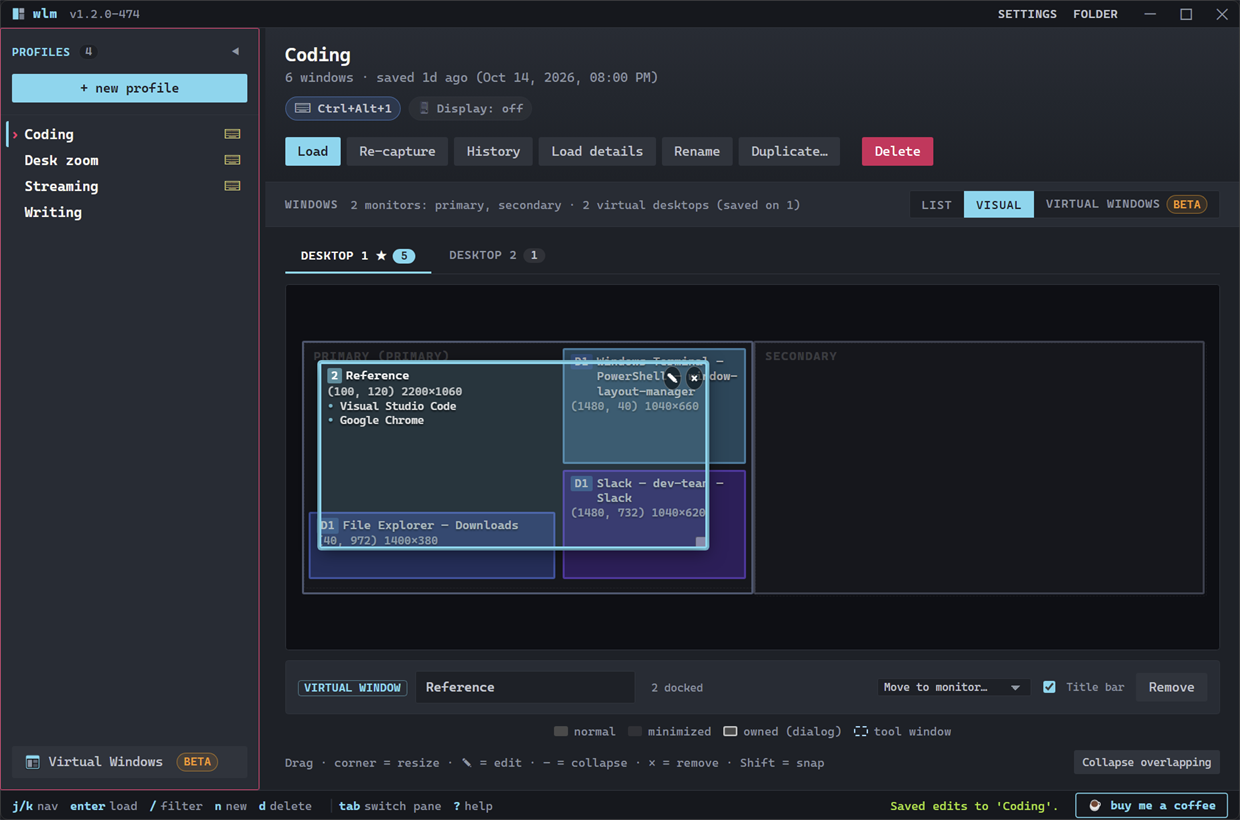
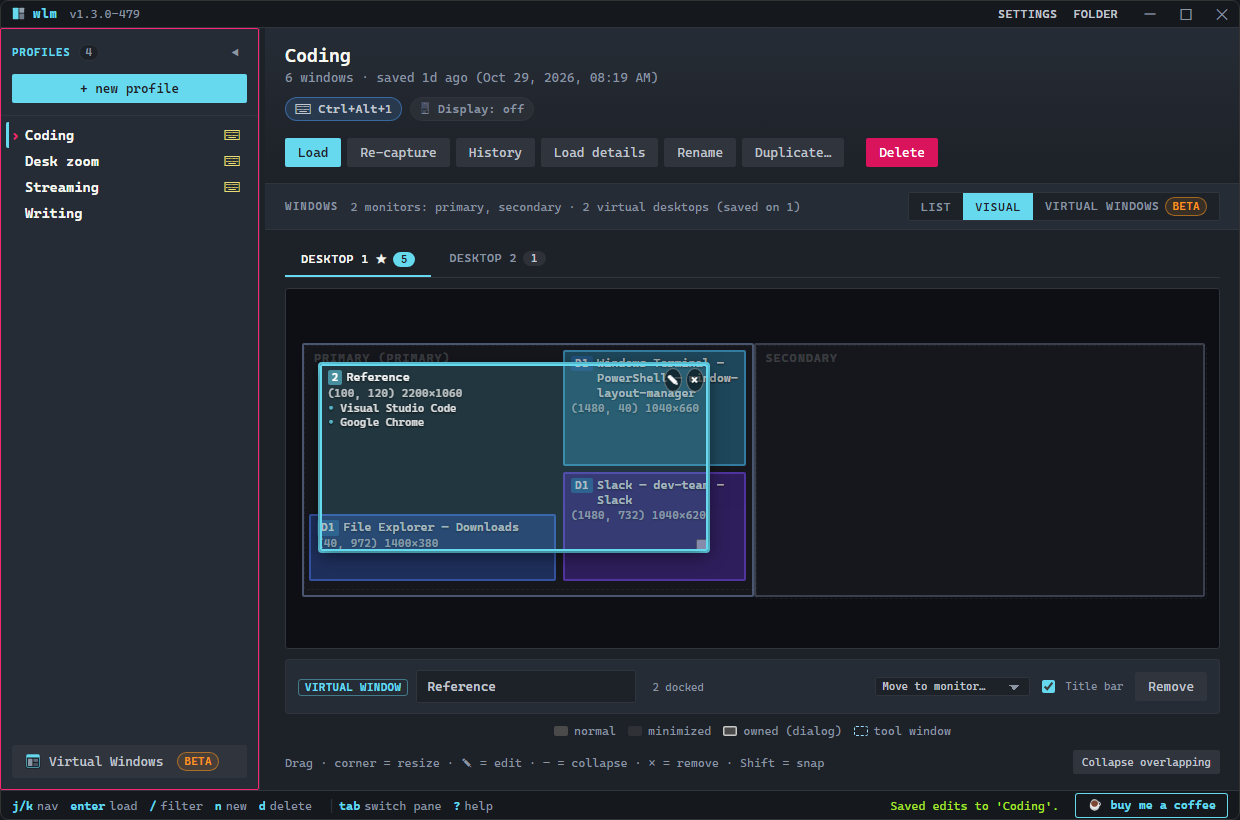
WLM tutorial: fresh v1.3.0-479 shots, the window editor with its identity rows

diff --git a/projects/windowlayoutmanager/tutorial/index.html b/projects/windowlayoutmanager/tutorial/index.html
@@ -495,7 +495,7 @@
           <p class="prompt-line"><span class="u">wlm</span><span class="p">:~</span>$ <span class="cmd">wlm --tutorial editing</span></p>
           <h2>Precise Edits, Undo &amp; History</h2>
           <p>"EDIT" on a list row or "Edit" under the canvas opens exact fields for any window: desktop, monitor, state, colour, and pixel-perfect position and size.</p>
-          <div class="shot"><a href="img/03-window-editor.png" target="_blank" rel="noopener" title="Open full size"><img src="img/03-window-editor.png" alt="Per-window editor, open in its own window" width="560" height="522" loading="lazy"></a></div>
+          <div class="shot"><a href="img/03-window-editor.png" target="_blank" rel="noopener" title="Open full size"><img src="img/03-window-editor.png" alt="Per-window editor, open in its own window, with the identity rows" width="1116" height="728" loading="lazy"></a></div>
           <p>Every dialog in WLM is a real window: drag it onto a second monitor, find it in alt-tab. It opens at the size its content needs, capped at 90% of the app window, and is not resizable. The app window opens at 1280 by 720, which every dialog is laid out to fit, and Settings &rarr; Display has a button that puts it back there. The app is disabled while a dialog is up, so a stray keystroke can't land behind it. Settings and the hotkey capture stay inside the app window; Custom resolutions and Earlier arrangements draw inside the display editor's window rather than opening a third.</p>
 
           <h3>How a Window Gets Recognised</h3>
